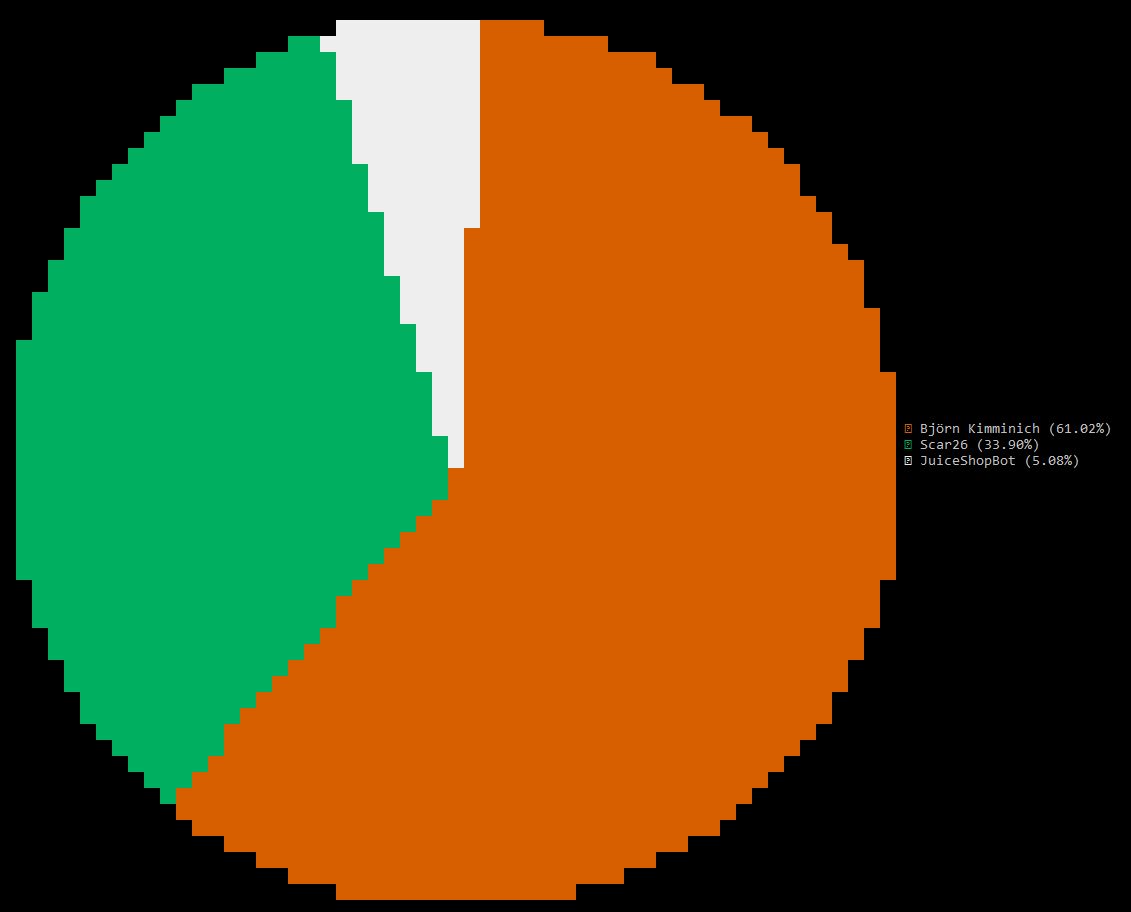
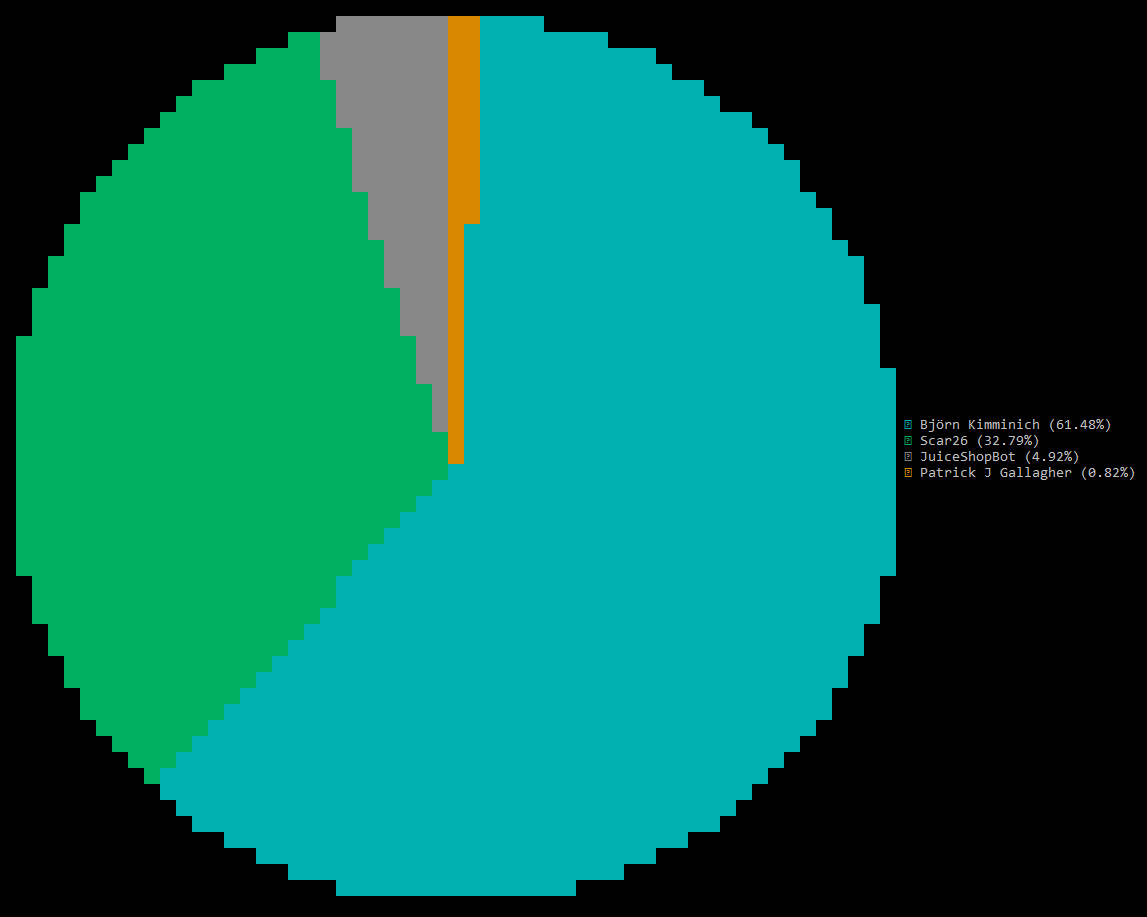
Update contributor statistics

diff --git a/README.md b/README.md
@@ -10,7 +10,7 @@ Smart, friendly and helpful chat bot for OWASP Juice Shop.
 ## GitHub Contributors
 
 As reported by [`git-stats -a -s '2020'`](https://www.npmjs.com/package/git-stats) analysis
-of `master` as of Wed, 13 Oct 2021 after deduplication with `.mailmap`.
+of `master` as of Wed, 12 Oct 2022 after deduplication with `.mailmap`.
 
 ![Top git contributors](images/git-stats.png)
 
